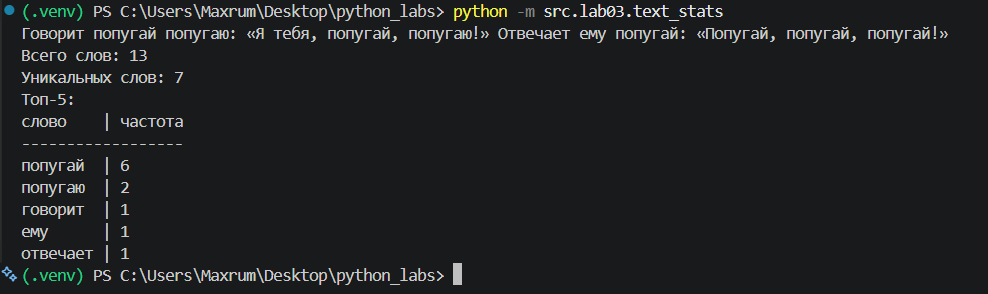
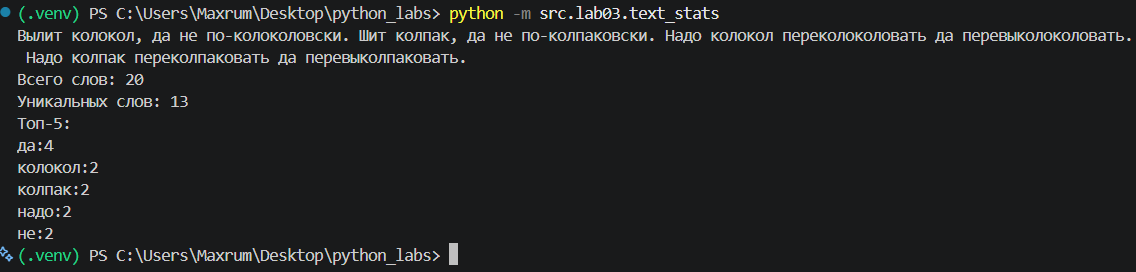
new img

diff --git a/src/lab03/text_stats.py b/src/lab03/text_stats.py
@@ -2,7 +2,7 @@
 from src.lib.text import normalize, tokenize, count_freq, top_n
 
 text = input()
-TABLE = 1
+TABLE = 0
 
 normal = normalize(text)
 words = tokenize(normal)
